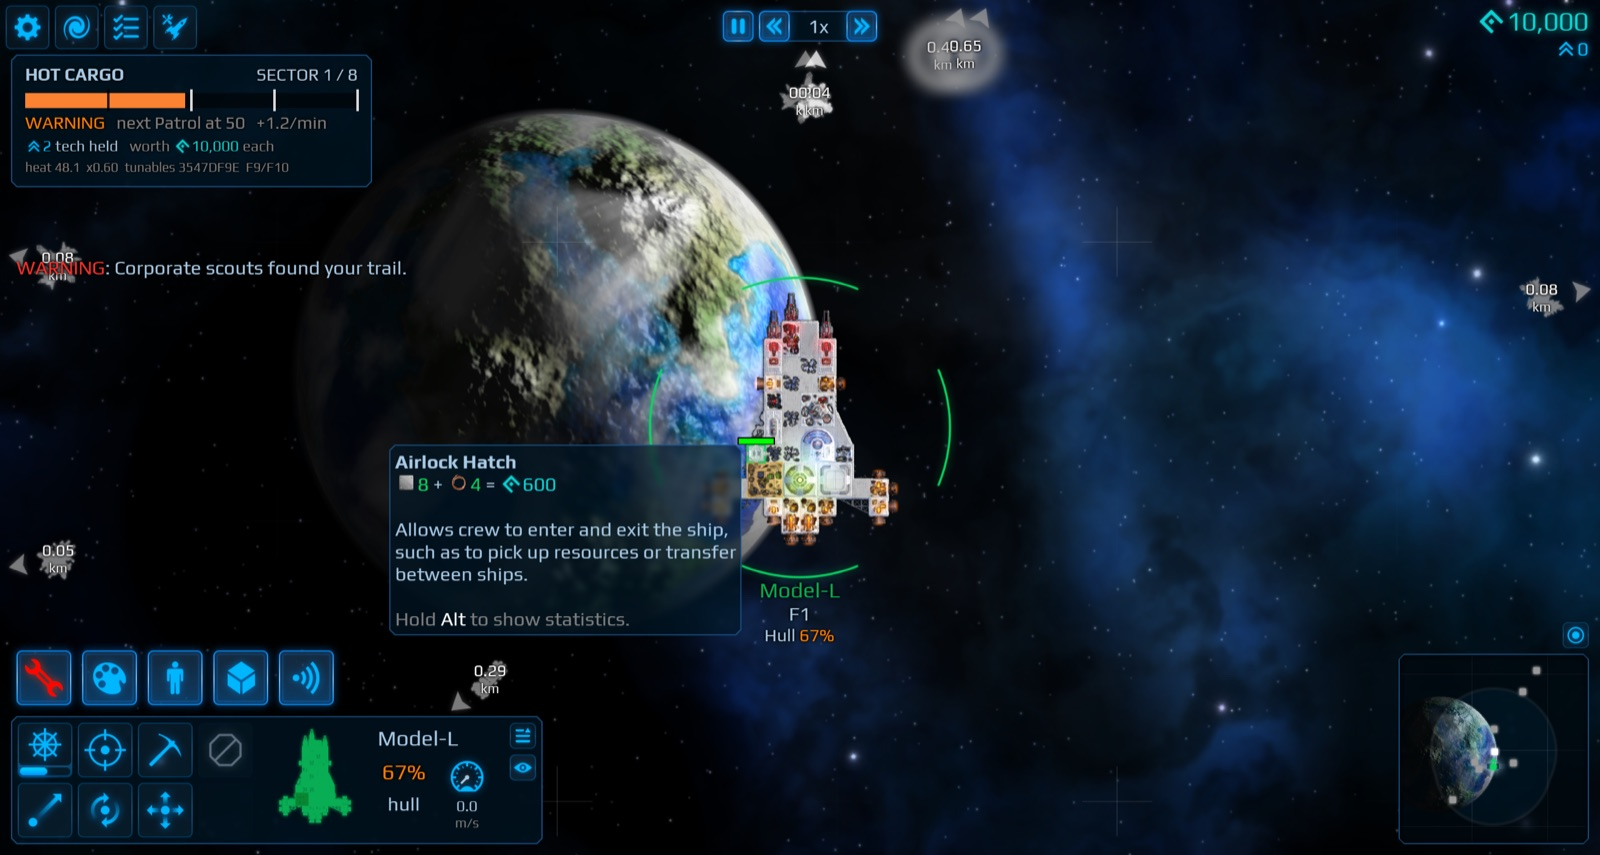
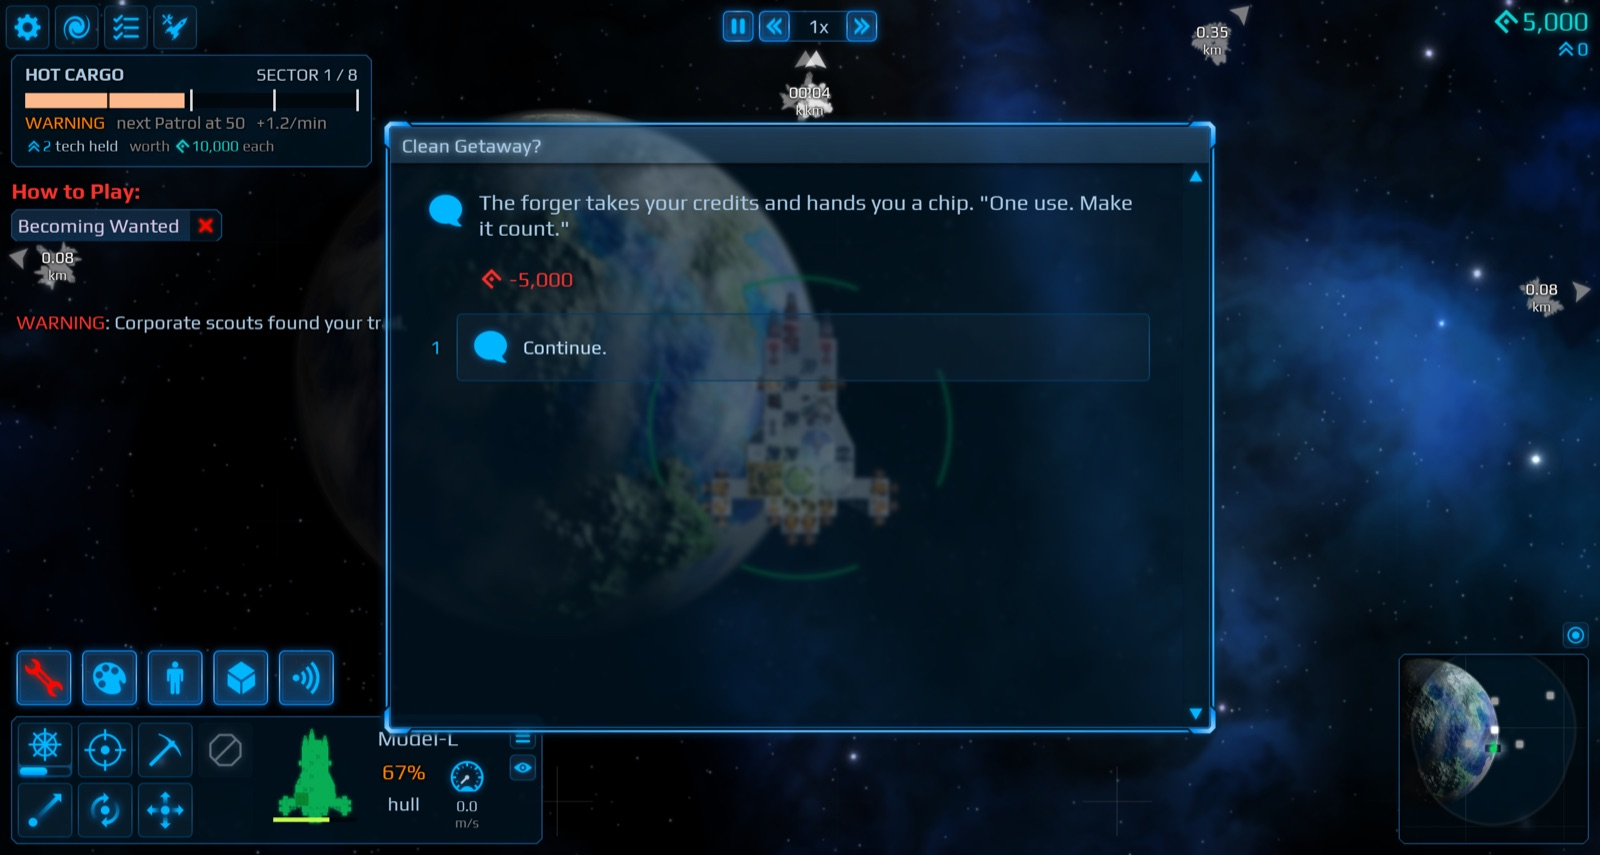
docs: fresh in-game screenshots (events, trade hints, loss screen)

diff --git a/README.md b/README.md
@@ -19,7 +19,11 @@ You stole corporate tech. The corporation wants it back. Get it across about 8 s
 
 ![Heat stage alert](docs/screenshots/ux-heat-alert.jpg)
 
+![Choice event](docs/screenshots/ux-event-keys.jpg)
+
 ![Tech delivered](docs/screenshots/ux-win.jpg)
+
+![Run lost](docs/screenshots/ux-loss.jpg)
 
 It also improves some of the base game's UI. You can switch off each change in `tunables.rules`:
 
@@ -30,6 +34,8 @@ It also improves some of the base game's UI. You can switch off each change in `
 - A clearer fame tooltip.
 
 ![Galaxy map tooltip](docs/screenshots/ux-map.jpg)
+
+![Trade tab with sale effects](docs/screenshots/ux-trade.jpg)
 
 ## Install
 
